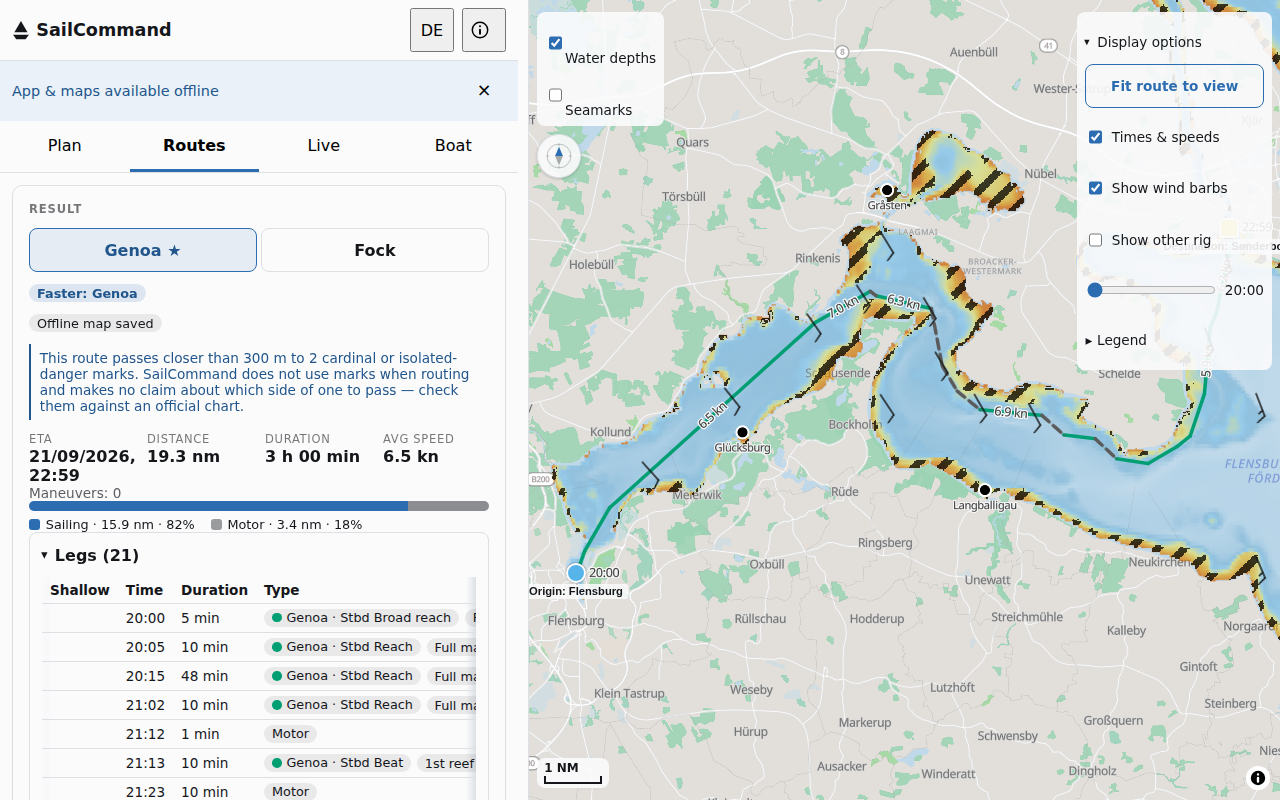
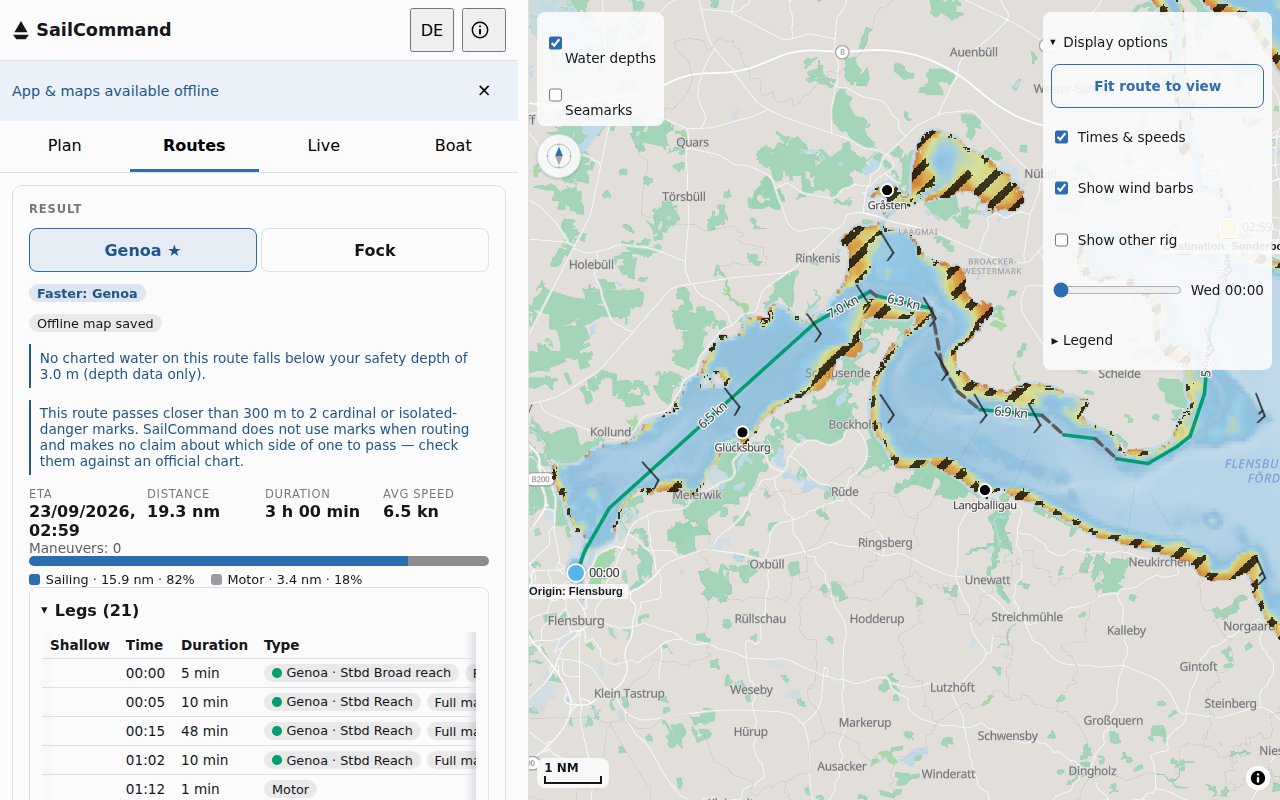
docs: v0.40.0 release sweep (#132 ritual)
Fold changelog.d/1398 and 1399 fragments into CHANGELOG.md's new
[0.40.0] section; correct the #1398 fragment's quoted UI strings,
which describe behaviour the code never emitted, against the shipped
app.src.i18n dict entries. Roll ROADMAP.md's Now/Next sections and
Current release to v0.40.0/v0.41.0. Roll CONTRIBUTING.md's milestone
list. Bump security-assurance-case.md's status header and re-run its
A06 Dependabot-alert query (0 open). Update docs/acceptance.md's
tier-C rig-suppression chip wording for #1398 and add checks for the
affirmative clean-route line, the first-run caveat banner, the
departure/safety-depth context sentence, and the reopened-plan
forecast-age line. Regenerate the docs screenshots.

Refs #1398, #1399, #1236, #1302, #1328, #1357, #1391, #1392.

Claude-Session: https://claude.ai/code/session_01XpGTHAdmutD1zfm9QJaUUf

Changed region(s): [[0.0, 0.4375, 0.375, 1.0], [0.8125, 0.0, 0.9688, 0.4688], [0.9375, 0.3438, 0.9688, 0.375]]

diff --git a/ROADMAP.md b/ROADMAP.md
@@ -13,60 +13,63 @@ The authoritative, always-current view is the
 milestones. This file is the human-readable summary of that state, refreshed at
 each release cut.
 
-Current release: **v0.39.0**. See [`CHANGELOG.md`](CHANGELOG.md) for what has
+Current release: **v0.40.0**. See [`CHANGELOG.md`](CHANGELOG.md) for what has
 shipped.
 
-## Now — v0.39.0
+## Now — v0.40.0
 
-The `v0.39.0` cut (2026-09-22) worked the
-[`v0.39.0` milestone](https://github.com/DocGerd/sail_command/milestones),
-which closed nine issues: one user-visible (per `CHANGELOG.md`'s own
-[0.39.0] section), the other eight: five Claude Code skill-doc gaps found
-running the `v0.38.0` release cycle, a sweep-closure `diff` fix, a
-redaction of historical home-path leaks, and an implementer-facing doc fix.
+The `v0.40.0` cut (2026-09-23) worked the
+[`v0.40.0` milestone](https://github.com/DocGerd/sail_command/milestones),
+which closed nine issues: two user-visible (per `CHANGELOG.md`'s own
+[0.40.0] section), the other seven process/tooling and documentation fixes.
 
-Switching boats now announces when the newly selected boat can't reach the
-selected origin or destination harbour, closing the #1135 design's §5.4 gap
-([#1325](https://github.com/DocGerd/sail_command/issues/1325)).
+The maintainer-filed chartplotter-conventions review
+([#1344](https://github.com/DocGerd/sail_command/issues/1344)) scoped, via
+spike `docs/spikes/1022-whole-journey-ux.md`, into two slices delivered
+together in PR #1405: an explicit affirmative line for a clean, non-relaxed
+route and naming the tier-C reason when the two-rig comparison is
+suppressed
+([#1398](https://github.com/DocGerd/sail_command/issues/1398)); and a
+dismissible first-run caveat banner, a context sentence above the
+departure/safety-depth row, and a reloaded plan's forecast age measured
+against now rather than save time
+([#1399](https://github.com/DocGerd/sail_command/issues/1399)). A third
+slice (the via-coordinate format hint) is tracked separately in
+[#1400](https://github.com/DocGerd/sail_command/issues/1400); a broader
+chartplotter-UI audit was judged out of scope for this triage and would need
+its own issue. #1344 itself closed as the umbrella once both delivered
+slices shipped.
 
 The rest of the milestone, all process/tooling with no user-visible surface:
-`merge-train`'s fork-PR path and integration-PR default
-([#1372](https://github.com/DocGerd/sail_command/issues/1372)),
-`release-cycle`'s adversarial pass on keep/move verdicts, a bucket-reconcile
-step, and a nightly-Coverage check
-([#1373](https://github.com/DocGerd/sail_command/issues/1373)),
-`pr-selfreview`'s GraphQL undraft and zero-thread COMMENTED reviews
-([#1374](https://github.com/DocGerd/sail_command/issues/1374)),
-`worktree-cleanup`'s detached, out-of-tree and locked worktrees
-([#1375](https://github.com/DocGerd/sail_command/issues/1375)), and
-`sweep-closure`'s ledger-anchor recording steps
-([#1376](https://github.com/DocGerd/sail_command/issues/1376)); the
-`sail-implementer` agent definition now states the `--selftest` contract for
-a new top-level `.github/scripts/*.sh`
-([#1377](https://github.com/DocGerd/sail_command/issues/1377));
-`closure.mjs diff` now computes the closure at the merge-base, head and base trees rather
-than the caller's checked-out one, the same fix `reuse` got in `v0.38.0`
-([#1359](https://github.com/DocGerd/sail_command/issues/1359)); and the
-historical home-path leaks the advisory `scan-issue-home-paths.yml` scan
-reported are redacted in place
-([#1215](https://github.com/DocGerd/sail_command/issues/1215)).
+this file's own #649-residual list, which named three of its four residual
+issues and omitted #931
+([#1236](https://github.com/DocGerd/sail_command/issues/1236)); a
+`layout.spec.ts` #871 test whose 120 s timeout was too tight for a slow CI
+runner ([#1302](https://github.com/DocGerd/sail_command/issues/1302)); a
+dict comment citing a since-renamed key
+([#1328](https://github.com/DocGerd/sail_command/issues/1328));
+`findLowerSettingHint`'s non-finite `maxSteps` guard, pinned for `Infinity`
+and not only `NaN`
+([#1357](https://github.com/DocGerd/sail_command/issues/1357)); and two
+Claude Code skill-doc fixes — `merge-train`'s Scorecard bullet contradicting
+`CLAUDE.md` and `scorecard.yml`, and `sweep-closure`'s stale "nine arm
+files" count
+([#1391](https://github.com/DocGerd/sail_command/issues/1391),
+[#1392](https://github.com/DocGerd/sail_command/issues/1392)).
 
-## Next — v0.40.0
+Two issues carried in the prior "Next" section did not enter this cut and
+moved to `Backlog` instead: a sweep-arm coverage gap for a motor-off,
+near-exhausted-horizon plan
+([#1334](https://github.com/DocGerd/sail_command/issues/1334)), and a
+real-tablet measurement of the depth-overlay canvases' GPU memory
+([#1281](https://github.com/DocGerd/sail_command/issues/1281)).
 
-The [`v0.40.0` milestone](https://github.com/DocGerd/sail_command/milestones)
-carries three open issues: the maintainer-filed UX-vs-chartplotter-conventions
-review, still deliberately unscoped pending a design pass
-([#1344](https://github.com/DocGerd/sail_command/issues/1344)); a sweep-arm
-coverage gap — no arm crosses a motor-off, near-exhausted-horizon plan, so
-#1136's salvage-admission widening has no exposure in the sweep to prove it
-against
-([#1334](https://github.com/DocGerd/sail_command/issues/1334)); and a
-real-tablet measurement of the depth-overlay canvases' GPU memory, to decide
-whether hiding the layers should free it or the hatch raster should become a
-screen-space fill pattern instead
-([#1281](https://github.com/DocGerd/sail_command/issues/1281)). The
-milestone page is the only authoritative view, check it directly rather
-than this file.
+## Next — v0.41.0
+
+The [`v0.41.0` milestone](https://github.com/DocGerd/sail_command/milestones)
+is empty at this cut — nothing has been triaged into it yet. The milestone
+page is the only authoritative view, check it directly rather than this
+file.
 
 ## Themes for the next year
 

diff --git a/docs/security-assurance-case.md b/docs/security-assurance-case.md
@@ -1,7 +1,7 @@
 # SailCommand security assurance case
 
-**Status:** current as of 2026-09-22, describing `develop` at the time of
-writing (`v0.39.0` cut). Reviewed at each release cut.
+**Status:** current as of 2026-09-23, describing `develop` at the time of
+writing (`v0.40.0` cut). Reviewed at each release cut.
 **Audience:** users deciding whether to trust the app, and reviewers assessing
 the project (this document is the artifact for the OpenSSF Best Practices
 `assurance_case` criterion).
@@ -365,7 +365,7 @@ place to occur, not that it was judged unlikely.
 | **A03 Injection** (CWE-79 XSS, CWE-89 SQLi, CWE-611 XXE) | Countered | No SQL and no server-side interpreter. XSS: no `innerHTML` / `dangerouslySetInnerHTML` / `eval` / `new Function` anywhere; React escapes by default. XXE: `DOMParser` with `application/xml` does not resolve external entities. CodeQL's `js/xss-through-dom` alert on that parse is a **documented false positive** — its DOM-XSS sink model is mime-insensitive, while an `application/xml` parse is inert and the parser extracts only numeric coordinates and enumerated notices |
 | **A04 Insecure design** | Countered | This document is the design argument; see [§5](#5-secure-design-argument). Threats were considered against the architecture, and the largest control is architectural: no backend, no accounts, no central data |
 | **A05 Security misconfiguration** | Countered | Minimal workflow permissions, SHA-pinned actions, protected branches, secret scanning with push protection, no debug endpoints, static hosting. GitHub Pages cannot set response headers, so the app injects a `<meta http-equiv="Content-Security-Policy">` at build time (`cspMeta()` in `app/vite.config.ts`) with `default-src 'self'`, a `connect-src` allowlist of `'self'` plus Open-Meteo and aisstream.io, `worker-src 'self'` (no `blob:` — it would defeat `script-src 'self'`), `img-src` widened to `data:`/`blob:` where maplibre-gl 6 demonstrably needs it, and no `'unsafe-inline'`/`'unsafe-eval'`, plus the static `<meta name="referrer" content="strict-origin-when-cross-origin">` already present in `app/index.html` ([#223](https://github.com/DocGerd/sail_command/issues/223)). The meta form cannot express `frame-ancestors` or `report-uri` — accepted, static host with no framing threat model and no collector |
-| **A06 Vulnerable and outdated components** (CWE-1104) | Countered | Lockfiles for every ecosystem; Dependabot across five update configurations spanning three package ecosystems (npm ×2, pip ×2, github-actions) weekly plus security updates; no open Dependabot alerts — the live state is the fact rather than this sentence: `gh api repos/DocGerd/sail_command/dependabot/alerts --jq '[.[]\|select(.state=="open")]\|length'` (0 at the `v0.39.0` cut); a committed third-party notices inventory whose drift fails CI; no vendored or forked convenience copies |
+| **A06 Vulnerable and outdated components** (CWE-1104) | Countered | Lockfiles for every ecosystem; Dependabot across five update configurations spanning three package ecosystems (npm ×2, pip ×2, github-actions) weekly plus security updates; no open Dependabot alerts — the live state is the fact rather than this sentence: `gh api repos/DocGerd/sail_command/dependabot/alerts --jq '[.[]\|select(.state=="open")]\|length'` (0 at the `v0.40.0` cut); a committed third-party notices inventory whose drift fails CI; no vendored or forked convenience copies |
 | **A07 Identification and authentication failures** | N/A by architecture | There is no authentication. No accounts, no passwords, no sessions, no password reset, nothing to brute-force |
 | **A08 Software and data integrity failures** (CWE-502) | **Partially countered** | Reproducible double-build with byte-drift gating, SHA-pinned actions, protected branches, post-deploy smoke probe, and — from `v0.8.0` — SSH-signed release tags verifiable via `git tag -v` ([#322](https://github.com/DocGerd/sail_command/issues/322)); the signing key is registered and the `git tag -v` verification path is proven end to end for every signed tag including `v0.8.0`, so a user willing to run that command can confirm a tag traces to the maintainer. GitHub's Verified badge — the no-local-config channel — is a documented exception for the `v0.8.0` tag itself (signed under an email not registered on the maintainer's GitHub account; see `v0.8.1`'s CHANGELOG entry) and does show correctly for **every** tag from `v0.8.1` onward, each reporting `verified: true, reason: "valid"` — re-derivable with `gh api repos/DocGerd/sail_command/git/tags/$(git rev-parse refs/tags/vX.Y.Z) --jq .verification` rather than trusted from a list here. No untrusted deserialization: IndexedDB uses structured clone of the app's own records, and a corrupt record is isolated to its own row rather than blanking the list. **Still partial**: signing covers the tagged commit's authorship, not the deployed artifact bytes GitHub Pages serves, and `v0.1.0`–`v0.7.0` remain permanently unsigned |
 | **A09 Logging and monitoring failures** | Accepted, documented | There is deliberately no telemetry — a privacy choice that means client-side attacks cannot be observed centrally. Repository-side monitoring exists (CodeQL, Dependabot, Scorecard, deploy smoke probe). For a client-only app with no user data on any server, the privacy benefit is judged to outweigh the lost visibility |

diff --git a/docs/acceptance.md b/docs/acceptance.md
@@ -30,6 +30,17 @@ results table at the bottom, and note it in the box below the check.
 ## 1. Setup
 
 - [ ] Open the live app in a normal (non-airplane-mode) browser session.
+- [ ] **First-run caveat banner (#1399a).** In a private/incognito window
+      (so `sc-caveat-banner-dismissed` has never been set in localStorage),
+      load the app: a dismissible info banner states the same
+      passage-planning-aid disclaimer the About dialog carries. Dismiss it
+      and reload — it stays dismissed; the choice is localStorage, not
+      IndexedDB.
+- [ ] **Departure/safety-depth context sentence (#1399b).** On the Plan
+      tab, above the compact departure/safety-depth row, one sentence
+      states what the two inputs do: departure time picks which forecast
+      hours the route uses, safety depth decides which water counts as too
+      shallow.
 - [ ] **Depth-hatch legend (before a route is planned).** With no route
       showing yet, below the "Water depths" / "Seamarks" toggles and the
       compass, open the collapsed **Legend** ("Legende") disclosure and
@@ -245,11 +256,12 @@ selected in §1.
     within 60 s ("… effectively tied …") or the passage runs entirely under
     engine ("Rig does not matter here …").
   - **SPEEDY GO! or PIRANJA** — both their sails are tier Estimated, so the
-    comparison is withheld: **no ★ on either tab**, and the chip reads "The
-    sails were not compared for this passage, so no faster rig is claimed". A
-    missing ★ on these two boats is the designed outcome, not a defect — their
-    two tables differ by the Salona 45's overlay ramp, which carries no
-    information about the hull.
+    comparison is withheld: **no ★ on either tab**, and the chip now names the
+    reason — "The sails were not compared for this passage — {boat}'s polar
+    data is not certificate-verified (tier: Estimated), so no faster rig is
+    claimed" (#1398). A missing ★ on these two boats is the designed outcome,
+    not a defect — their two tables differ by the Salona 45's overlay ramp,
+    which carries no information about the hull.
   - **Any boat, if the chip reads "The search ran out of time before
     comparing both sails, so no faster rig is claimed"** — the plan's search
     hit its wall-clock budget before both sails finished. No ★ is shown, and
@@ -281,6 +293,12 @@ selected in §1.
       the number tracks the departure you chose (#748). It is rounded to
       whole hours, so a departure only just past the threshold legitimately
       reads "12 h": that is a PASS, not a stuck label.
+- [ ] **2.8b Reopened saved plan states forecast age against now (#1399c).**
+      Save this plan, wait at least an hour (or reopen one saved earlier),
+      then load it from Saved plans. Distinct from 2.8: this line reads
+      "This plan's forecast is now N h old — replan for current
+      conditions." and compares the forecast's fetch time to the CURRENT
+      clock, not to the plan's own departure time.
 - [ ] **2.9 Depth hazard hatching is expected, not a rendering fault.** With
       the water-depths overlay on (it is on by default), water whose
       cautious, worst-case reading falls below your safety depth is drawn
@@ -308,6 +326,12 @@ selected in §1.
       Route A commonly relaxes at default settings, so expect the
       banner there and the plain (non-"Caution:") marginal-depth line more
       often on route B; that line's absence is fine either way.
+- [ ] **2.10b Affirmative clean-route line (#1398).** If neither 2.10's
+      marginal-depth line nor 2.13's shallow-water banner renders, the
+      results panel instead states plainly that no charted water on the
+      route falls below your safety depth (depth data only) — mutually
+      exclusive with both by construction, never a fourth state layered
+      beside either.
 - [ ] **2.11 Depth profile is pinned to the plan.** Note the profile's
       "Safety depth" line, then change the safety depth on the Boat tab. The
       line must NOT move: the chart reads the depth the open plan was

diff --git a/CHANGELOG.md b/CHANGELOG.md
@@ -7,6 +7,13 @@ and this project adheres to [Semantic Versioning](https://semver.org/spec/v2.0.0
 
 ## [Unreleased]
 
+## [0.40.0] - 2026-09-23
+
+### Added
+
+- The results card now states an explicit affirmative line when no charted water on the route falls below your safety depth, and names the tier-C reason ("polar data is not certificate-verified") when the two-rig comparison is suppressed for that cause (#1398).
+- A dismissible first-run caveat banner, a context sentence above the departure/safety-depth row, and a "forecast is now N h old" line on a reopened saved plan, measured against the current time rather than save time (#1399).
+
 ## [0.39.0] - 2026-09-22
 
 ### Added
@@ -1153,7 +1160,8 @@ and this project adheres to [Semantic Versioning](https://semver.org/spec/v2.0.0
 - German/English (de/en) UI localization (#23).
 - Full offline operation after first load via a service worker precache, including the regional PMTiles basemap with Range/206 support (#26).
 
-[Unreleased]: https://github.com/DocGerd/sail_command/compare/v0.39.0...HEAD
+[Unreleased]: https://github.com/DocGerd/sail_command/compare/v0.40.0...HEAD
+[0.40.0]: https://github.com/DocGerd/sail_command/compare/v0.39.0...v0.40.0
 [0.39.0]: https://github.com/DocGerd/sail_command/compare/v0.38.0...v0.39.0
 [0.38.0]: https://github.com/DocGerd/sail_command/compare/v0.37.0...v0.38.0
 [0.37.0]: https://github.com/DocGerd/sail_command/compare/v0.36.0...v0.37.0

diff --git a/CONTRIBUTING.md b/CONTRIBUTING.md
@@ -229,14 +229,14 @@ labels on **pull requests** are applied automatically from changed paths by
 
 **Milestones**
 
-- `v0.40.0` — the milestone now being filled; it closes when the release PR
+- `v0.41.0` — the milestone now being filled; it closes when the release PR
   merges and the tag is pushed.
-- `v0.41.0` — the next MINOR release, opened fresh at the `v0.39.0` cut per
+- `v0.42.0` — the next MINOR release, opened fresh at the `v0.40.0` cut per
   the roll-forward convention below.
 - `Backlog` — accepted, not yet scheduled into a release.
 - `Icebox` — deferred / maybe-never; revisit opportunistically.
 
-`v0.4.0` through `v0.38.0` are closed (plus the `v0.5.1`, `v0.12.1`, and
+`v0.4.0` through `v0.39.0` are closed (plus the `v0.5.1`, `v0.12.1`, and
 `v0.13.1` patch milestones). Whichever cut is in flight is always the
 exception, and reads the same way every time: its issues are closed while
 its milestone object is not, because that closes only at tag push (first
